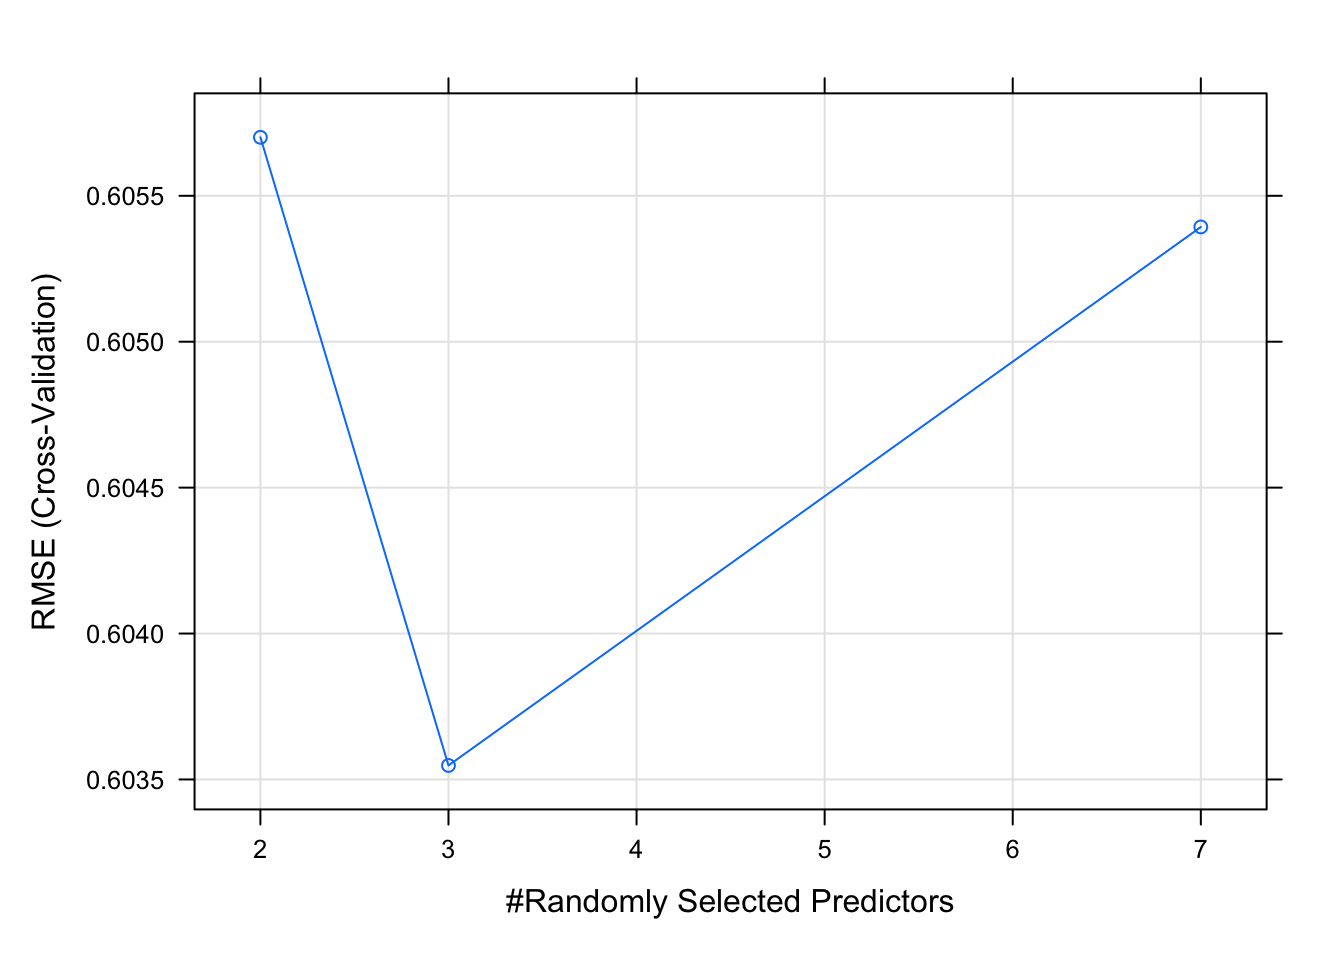
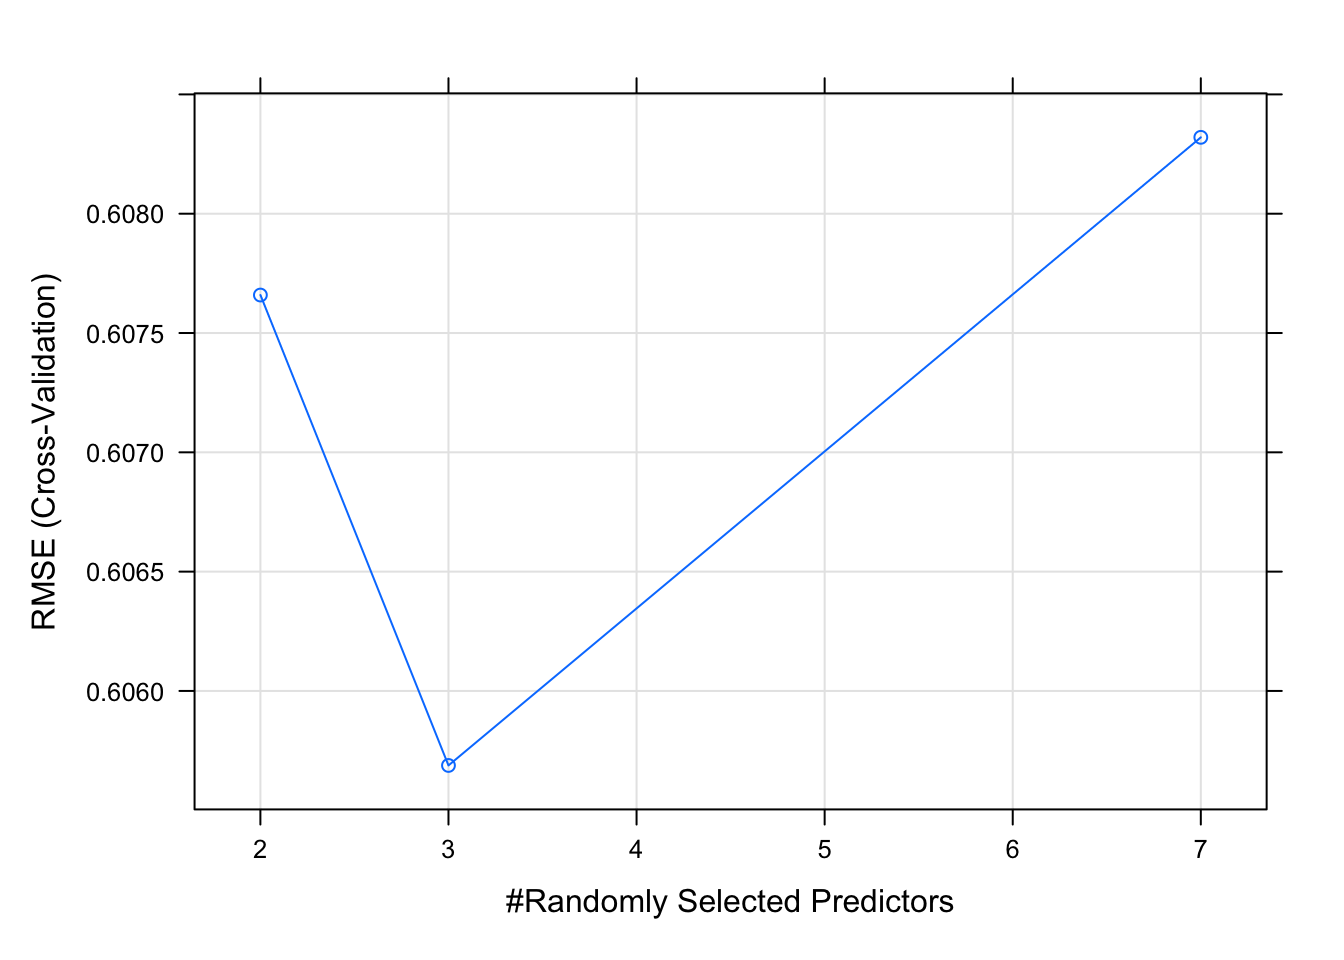
17modeling.Rmd minor changes

diff --git a/_book/modeling.html b/_book/modeling.html
@@ -6,7 +6,7 @@
   <meta http-equiv="X-UA-Compatible" content="IE=edge" />
   <title>Chapter 17 Modeling | Bill’s Drills Book</title>
   <meta name="description" content="Chapter 17 Modeling | Bill’s Drills Book" />
-  <meta name="generator" content="bookdown 0.22 and GitBook 2.6.7" />
+  <meta name="generator" content="bookdown 0.24 and GitBook 2.6.7" />
 
   <meta property="og:title" content="Chapter 17 Modeling | Bill’s Drills Book" />
   <meta property="og:type" content="book" />
@@ -32,8 +32,9 @@
   
 <link rel="prev" href="knncv.html"/>
 <link rel="next" href="moremodeling.html"/>
-<script src="libs/header-attrs-2.9/header-attrs.js"></script>
-<script src="libs/jquery-2.2.3/jquery.min.js"></script>
+<script src="libs/header-attrs-2.10/header-attrs.js"></script>
+<script src="libs/jquery-3.6.0/jquery-3.6.0.min.js"></script>
+<script src="https://cdn.jsdelivr.net/npm/fuse.js@6.4.6/dist/fuse.min.js"></script>
 <link href="libs/gitbook-2.6.7/css/style.css" rel="stylesheet" />
 <link href="libs/gitbook-2.6.7/css/plugin-table.css" rel="stylesheet" />
 <link href="libs/gitbook-2.6.7/css/plugin-bookdown.css" rel="stylesheet" />
@@ -41,7 +42,6 @@
 <link href="libs/gitbook-2.6.7/css/plugin-search.css" rel="stylesheet" />
 <link href="libs/gitbook-2.6.7/css/plugin-fontsettings.css" rel="stylesheet" />
 <link href="libs/gitbook-2.6.7/css/plugin-clipboard.css" rel="stylesheet" />
-
 
 
 
@@ -58,7 +58,6 @@
 pre > code.sourceCode { white-space: pre; position: relative; }
 pre > code.sourceCode > span { display: inline-block; line-height: 1.25; }
 pre > code.sourceCode > span:empty { height: 1.2em; }
-.sourceCode { overflow: visible; }
 code.sourceCode > span { color: inherit; text-decoration: inherit; }
 pre.sourceCode { margin: 0; }
 @media screen {
@@ -263,7 +262,7 @@ code span.wa { color: #60a0b0; font-weight: bold; font-style: italic; } /* Warni
 <ul>
 <li class="chapter" data-level="17.1" data-path="modeling.html"><a href="modeling.html#modeling-notes"><i class="fa fa-check"></i><b>17.1</b> Modeling notes</a></li>
 <li class="chapter" data-level="17.2" data-path="modeling.html"><a href="modeling.html#out-of-sample-error-example"><i class="fa fa-check"></i><b>17.2</b> Out of sample error example</a></li>
-<li class="chapter" data-level="17.3" data-path="modeling.html"><a href="modeling.html#a-regression-example-from-the-course"><i class="fa fa-check"></i><b>17.3</b> A regression example from the course:</a></li>
+<li class="chapter" data-level="17.3" data-path="modeling.html"><a href="modeling.html#a-regression-example-from-the-course-this-time-using-caret"><i class="fa fa-check"></i><b>17.3</b> A regression example from the course, this time using <strong>caret</strong></a></li>
 <li class="chapter" data-level="17.4" data-path="modeling.html"><a href="modeling.html#classification"><i class="fa fa-check"></i><b>17.4</b> Classification</a>
 <ul>
 <li class="chapter" data-level="17.4.1" data-path="modeling.html"><a href="modeling.html#an-rpart-classification-example."><i class="fa fa-check"></i><b>17.4.1</b> An <strong>rpart</strong> classification example.</a></li>
@@ -282,6 +281,12 @@ code span.wa { color: #60a0b0; font-weight: bold; font-style: italic; } /* Warni
 <ul>
 <li class="chapter" data-level="19.1" data-path="github.html"><a href="github.html#basic-idea"><i class="fa fa-check"></i><b>19.1</b> Basic idea</a></li>
 <li class="chapter" data-level="19.2" data-path="github.html"><a href="github.html#a-couple-invaluable-websites"><i class="fa fa-check"></i><b>19.2</b> A couple invaluable websites</a></li>
+</ul></li>
+<li class="chapter" data-level="20" data-path="explainingmachinelearning.html"><a href="explainingmachinelearning.html"><i class="fa fa-check"></i><b>20</b> What is machine learning?</a>
+<ul>
+<li class="chapter" data-level="20.1" data-path="explainingmachinelearning.html"><a href="explainingmachinelearning.html#machine-learning-for-mds"><i class="fa fa-check"></i><b>20.1</b> Machine learning for MD’s</a></li>
+<li class="chapter" data-level="20.2" data-path="explainingmachinelearning.html"><a href="explainingmachinelearning.html#supervised-versus-unsuperised-learning"><i class="fa fa-check"></i><b>20.2</b> Supervised versus unsuperised learning</a></li>
+<li class="chapter" data-level="20.3" data-path="explainingmachinelearning.html"><a href="explainingmachinelearning.html#classification-versus-regression"><i class="fa fa-check"></i><b>20.3</b> Classification versus regression</a></li>
 </ul></li>
 <li class="chapter" data-level="" data-path="references.html"><a href="references.html"><i class="fa fa-check"></i>References</a></li>
 <li class="divider"></li>
@@ -332,7 +337,7 @@ code span.wa { color: #60a0b0; font-weight: bold; font-style: italic; } /* Warni
 ## $ y       &lt;dbl&gt; 3.98, 3.84, 4.07, 4.23, 4.35, 3.96, 3.98, 4.11, 3.78, 4.05, 4.…
 ## $ z       &lt;dbl&gt; 2.43, 2.31, 2.31, 2.63, 2.75, 2.48, 2.47, 2.53, 2.49, 2.39, 2.…</code></pre>
 <div class="sourceCode" id="cb17"><pre class="sourceCode r"><code class="sourceCode r"><span id="cb17-1"><a href="modeling.html#cb17-1" aria-hidden="true" tabindex="-1"></a><span class="co"># Fit lm model: model</span></span>
-<span id="cb17-2"><a href="modeling.html#cb17-2" aria-hidden="true" tabindex="-1"></a>model<span class="ot">&lt;-</span><span class="fu">lm</span>(price<span class="sc">~</span>.,diamonds)</span>
+<span id="cb17-2"><a href="modeling.html#cb17-2" aria-hidden="true" tabindex="-1"></a>model<span class="ot">&lt;-</span><span class="fu">lm</span>(price<span class="sc">~</span>., diamonds)</span>
 <span id="cb17-3"><a href="modeling.html#cb17-3" aria-hidden="true" tabindex="-1"></a></span>
 <span id="cb17-4"><a href="modeling.html#cb17-4" aria-hidden="true" tabindex="-1"></a><span class="co"># Predict on full data: p</span></span>
 <span id="cb17-5"><a href="modeling.html#cb17-5" aria-hidden="true" tabindex="-1"></a>p<span class="ot">&lt;-</span><span class="fu">predict</span>(model, diamonds)</span>
@@ -385,10 +390,11 @@ code span.wa { color: #60a0b0; font-weight: bold; font-style: italic; } /* Warni
 <span id="cb19-28"><a href="modeling.html#cb19-28" aria-hidden="true" tabindex="-1"></a><span class="co"># Calculate RMSE</span></span>
 <span id="cb19-29"><a href="modeling.html#cb19-29" aria-hidden="true" tabindex="-1"></a><span class="fu">sqrt</span>(<span class="fu">mean</span>(error<span class="sc">^</span><span class="dv">2</span>))</span></code></pre></div>
 <pre><code>## [1] 796.8922</code></pre>
-<p>So the RMSE for the model of diamond price, as measured by dividing the set this way, is $<code>R round(sqrt(mean(error^2)), 2)</code>.</p>
+<p>So the RMSE for the model of diamond price, as measured by dividing the set this way, is $796.89.</p>
 </div>
-<div id="a-regression-example-from-the-course" class="section level2" number="17.3">
-<h2><span class="header-section-number">17.3</span> A regression example from the course:</h2>
+<div id="a-regression-example-from-the-course-this-time-using-caret" class="section level2" number="17.3">
+<h2><span class="header-section-number">17.3</span> A regression example from the course, this time using <strong>caret</strong></h2>
+<p>Note that the <code>train()</code> function has the method characteristic that can choose the type of model and that the <code>trainControl()</code> function has a method that determines cross validation. The number characteristic refers to the number of folds of cross validation. 10-fold cross validation is common, but takes more time than the use of smaller numbers. 5-fold will be used here to improve the speed of the processing.</p>
 <div class="sourceCode" id="cb21"><pre class="sourceCode r"><code class="sourceCode r"><span id="cb21-1"><a href="modeling.html#cb21-1" aria-hidden="true" tabindex="-1"></a><span class="fu">library</span>(caret)</span></code></pre></div>
 <pre><code>## Loading required package: lattice</code></pre>
 <pre><code>## 
@@ -402,30 +408,20 @@ code span.wa { color: #60a0b0; font-weight: bold; font-style: italic; } /* Warni
 <span id="cb25-4"><a href="modeling.html#cb25-4" aria-hidden="true" tabindex="-1"></a>  <span class="at">method =</span> <span class="st">&quot;lm&quot;</span>,</span>
 <span id="cb25-5"><a href="modeling.html#cb25-5" aria-hidden="true" tabindex="-1"></a>  <span class="at">trControl =</span> <span class="fu">trainControl</span>(</span>
 <span id="cb25-6"><a href="modeling.html#cb25-6" aria-hidden="true" tabindex="-1"></a>    <span class="at">method =</span> <span class="st">&quot;cv&quot;</span>, </span>
-<span id="cb25-7"><a href="modeling.html#cb25-7" aria-hidden="true" tabindex="-1"></a>    <span class="at">number =</span> <span class="dv">10</span>,</span>
+<span id="cb25-7"><a href="modeling.html#cb25-7" aria-hidden="true" tabindex="-1"></a>    <span class="at">number =</span> <span class="dv">5</span>,</span>
 <span id="cb25-8"><a href="modeling.html#cb25-8" aria-hidden="true" tabindex="-1"></a>    <span class="at">verboseIter =</span> <span class="cn">TRUE</span></span>
 <span id="cb25-9"><a href="modeling.html#cb25-9" aria-hidden="true" tabindex="-1"></a>  )</span>
 <span id="cb25-10"><a href="modeling.html#cb25-10" aria-hidden="true" tabindex="-1"></a>)</span></code></pre></div>
-<pre><code>## + Fold01: intercept=TRUE 
-## - Fold01: intercept=TRUE 
-## + Fold02: intercept=TRUE 
-## - Fold02: intercept=TRUE 
-## + Fold03: intercept=TRUE 
-## - Fold03: intercept=TRUE 
-## + Fold04: intercept=TRUE 
-## - Fold04: intercept=TRUE 
-## + Fold05: intercept=TRUE 
-## - Fold05: intercept=TRUE 
-## + Fold06: intercept=TRUE 
-## - Fold06: intercept=TRUE 
-## + Fold07: intercept=TRUE 
-## - Fold07: intercept=TRUE 
-## + Fold08: intercept=TRUE 
-## - Fold08: intercept=TRUE 
-## + Fold09: intercept=TRUE 
-## - Fold09: intercept=TRUE 
-## + Fold10: intercept=TRUE 
-## - Fold10: intercept=TRUE 
+<pre><code>## + Fold1: intercept=TRUE 
+## - Fold1: intercept=TRUE 
+## + Fold2: intercept=TRUE 
+## - Fold2: intercept=TRUE 
+## + Fold3: intercept=TRUE 
+## - Fold3: intercept=TRUE 
+## + Fold4: intercept=TRUE 
+## - Fold4: intercept=TRUE 
+## + Fold5: intercept=TRUE 
+## - Fold5: intercept=TRUE 
 ## Aggregating results
 ## Fitting final model on full training set</code></pre>
 <div class="sourceCode" id="cb27"><pre class="sourceCode r"><code class="sourceCode r"><span id="cb27-1"><a href="modeling.html#cb27-1" aria-hidden="true" tabindex="-1"></a><span class="co"># Print model to console</span></span>
@@ -436,12 +432,12 @@ code span.wa { color: #60a0b0; font-weight: bold; font-style: italic; } /* Warni
 ##     9 predictor
 ## 
 ## No pre-processing
-## Resampling: Cross-Validated (10 fold) 
-## Summary of sample sizes: 48547, 48546, 48546, 48547, 48545, 48547, ... 
+## Resampling: Cross-Validated (5 fold) 
+## Summary of sample sizes: 43152, 43152, 43152, 43152, 43152 
 ## Resampling results:
 ## 
 ##   RMSE      Rsquared   MAE     
-##   1131.015  0.9196398  740.6117
+##   1137.965  0.9186084  741.3386
 ## 
 ## Tuning parameter &#39;intercept&#39; was held constant at a value of TRUE</code></pre>
 <p>Note that <strong>caret</strong> handles the work of splitting test sets and calculating RMSE.</p>
@@ -484,11 +480,11 @@ code span.wa { color: #60a0b0; font-weight: bold; font-style: italic; } /* Warni
 ## 
 ## No pre-processing
 ## Resampling: Cross-Validated (5 fold) 
-## Summary of sample sizes: 405, 405, 406, 403, 405 
+## Summary of sample sizes: 405, 405, 405, 403, 406 
 ## Resampling results:
 ## 
 ##   RMSE      Rsquared   MAE     
-##   4.860247  0.7209221  3.398114
+##   4.811293  0.7238097  3.375276
 ## 
 ## Tuning parameter &#39;intercept&#39; was held constant at a value of TRUE</code></pre>
 <p>Cross validation can <em>itself</em> be repeated. The following is a 5-fold cross validation repeated 5 times.</p>
@@ -565,11 +561,11 @@ code span.wa { color: #60a0b0; font-weight: bold; font-style: italic; } /* Warni
 ## 
 ## No pre-processing
 ## Resampling: Cross-Validated (5 fold, repeated 5 times) 
-## Summary of sample sizes: 405, 406, 405, 403, 405, 405, ... 
+## Summary of sample sizes: 405, 404, 404, 406, 405, 405, ... 
 ## Resampling results:
 ## 
-##   RMSE      Rsquared   MAE     
-##   4.845724  0.7277269  3.402735
+##   RMSE    Rsquared  MAE     
+##   4.8764  0.722424  3.421333
 ## 
 ## Tuning parameter &#39;intercept&#39; was held constant at a value of TRUE</code></pre>
 <div class="sourceCode" id="cb40"><pre class="sourceCode r"><code class="sourceCode r"><span id="cb40-1"><a href="modeling.html#cb40-1" aria-hidden="true" tabindex="-1"></a><span class="fu">predict</span>(model, Boston)</span></code></pre></div>
@@ -809,39 +805,39 @@ code span.wa { color: #60a0b0; font-weight: bold; font-style: italic; } /* Warni
 <div class="sourceCode" id="cb52"><pre class="sourceCode r"><code class="sourceCode r"><span id="cb52-1"><a href="modeling.html#cb52-1" aria-hidden="true" tabindex="-1"></a>p <span class="ot">&lt;-</span> <span class="fu">predict</span>(model, test, <span class="at">type =</span> <span class="st">&quot;response&quot;</span>)</span>
 <span id="cb52-2"><a href="modeling.html#cb52-2" aria-hidden="true" tabindex="-1"></a><span class="fu">summary</span>(p)</span></code></pre></div>
 <pre><code>##     Min.  1st Qu.   Median     Mean  3rd Qu.     Max. 
-## 0.000000 0.000000 0.001997 0.493985 1.000000 1.000000</code></pre>
+## 0.000000 0.000000 0.002428 0.438835 1.000000 1.000000</code></pre>
 <div class="sourceCode" id="cb54"><pre class="sourceCode r"><code class="sourceCode r"><span id="cb54-1"><a href="modeling.html#cb54-1" aria-hidden="true" tabindex="-1"></a>p_class <span class="ot">&lt;-</span> <span class="fu">as.factor</span>(<span class="fu">ifelse</span>(p <span class="sc">&gt;</span> <span class="fl">0.1</span>, <span class="st">&quot;M&quot;</span>, <span class="st">&quot;R&quot;</span>))</span>
 <span id="cb54-2"><a href="modeling.html#cb54-2" aria-hidden="true" tabindex="-1"></a></span>
 <span id="cb54-3"><a href="modeling.html#cb54-3" aria-hidden="true" tabindex="-1"></a><span class="fu">table</span>(p_class, test[[<span class="st">&quot;Class&quot;</span>]])</span></code></pre></div>
 <pre><code>##        
 ## p_class  M  R
-##       M 12 29
-##       R 28 14</code></pre>
+##       M 11 26
+##       R 35 11</code></pre>
 <div class="sourceCode" id="cb56"><pre class="sourceCode r"><code class="sourceCode r"><span id="cb56-1"><a href="modeling.html#cb56-1" aria-hidden="true" tabindex="-1"></a><span class="fu">confusionMatrix</span>(p_class, test[[<span class="st">&quot;Class&quot;</span>]])</span></code></pre></div>
 <pre><code>## Confusion Matrix and Statistics
 ## 
 ##           Reference
 ## Prediction  M  R
-##          M 12 29
-##          R 28 14
+##          M 11 26
+##          R 35 11
 ##                                           
-##                Accuracy : 0.3133          
-##                  95% CI : (0.2159, 0.4244)
-##     No Information Rate : 0.5181          
-##     P-Value [Acc &gt; NIR] : 0.9999          
+##                Accuracy : 0.2651          
+##                  95% CI : (0.1742, 0.3734)
+##     No Information Rate : 0.5542          
+##     P-Value [Acc &gt; NIR] : 1.0000          
 ##                                           
-##                   Kappa : -0.3741         
+##                   Kappa : -0.4528         
 ##                                           
-##  Mcnemar&#39;s Test P-Value : 1.0000          
+##  Mcnemar&#39;s Test P-Value : 0.3057          
 ##                                           
-##             Sensitivity : 0.3000          
-##             Specificity : 0.3256          
-##          Pos Pred Value : 0.2927          
-##          Neg Pred Value : 0.3333          
-##              Prevalence : 0.4819          
-##          Detection Rate : 0.1446          
-##    Detection Prevalence : 0.4940          
-##       Balanced Accuracy : 0.3128          
+##             Sensitivity : 0.2391          
+##             Specificity : 0.2973          
+##          Pos Pred Value : 0.2973          
+##          Neg Pred Value : 0.2391          
+##              Prevalence : 0.5542          
+##          Detection Rate : 0.1325          
+##    Detection Prevalence : 0.4458          
+##       Balanced Accuracy : 0.2682          
 ##                                           
 ##        &#39;Positive&#39; Class : M               
 ## </code></pre>
@@ -925,15 +921,15 @@ code span.wa { color: #60a0b0; font-weight: bold; font-style: italic; } /* Warni
 ## 
 ## No pre-processing
 ## Resampling: Cross-Validated (10 fold) 
-## Summary of sample sizes: 187, 187, 188, 187, 186, 187, ... 
+## Summary of sample sizes: 187, 187, 186, 188, 188, 187, ... 
 ## Resampling results:
 ## 
-##   ROC        Sens       Spec     
-##   0.7363889  0.7310606  0.7055556</code></pre>
+##   ROC        Sens       Spec
+##   0.7221086  0.7378788  0.67</code></pre>
 </div>
 <div id="random-forest-with-caret" class="section level2" number="17.6">
 <h2><span class="header-section-number">17.6</span> Random forest with <strong>caret</strong></h2>
-<p>For this set, we’ll use the white wine quality dataset from UC Irvine.</p>
+<p>For this set, we’ll use the white wine quality data set from UC Irvine.</p>
 <div class="sourceCode" id="cb85"><pre class="sourceCode r"><code class="sourceCode r"><span id="cb85-1"><a href="modeling.html#cb85-1" aria-hidden="true" tabindex="-1"></a>wine <span class="ot">&lt;-</span> <span class="fu">read.csv</span>(<span class="st">&quot;http://archive.ics.uci.edu/ml/machine-learning-databases/wine-quality/winequality-white.csv&quot;</span>, <span class="at">sep =</span> <span class="st">&quot;;&quot;</span>)</span>
 <span id="cb85-2"><a href="modeling.html#cb85-2" aria-hidden="true" tabindex="-1"></a></span>
 <span id="cb85-3"><a href="modeling.html#cb85-3" aria-hidden="true" tabindex="-1"></a><span class="fu">glimpse</span>(wine)</span></code></pre></div>
@@ -997,12 +993,12 @@ code span.wa { color: #60a0b0; font-weight: bold; font-style: italic; } /* Warni
 ## 
 ## No pre-processing
 ## Resampling: Cross-Validated (5 fold) 
-## Summary of sample sizes: 3918, 3918, 3919, 3918, 3919 
+## Summary of sample sizes: 3918, 3918, 3919, 3919, 3918 
 ## Resampling results across tuning parameters:
 ## 
 ##   splitrule   RMSE       Rsquared   MAE      
-##   variance    0.6088784  0.5345764  0.4408249
-##   extratrees  0.6210150  0.5259736  0.4605455
+##   variance    0.6050967  0.5413882  0.4391071
+##   extratrees  0.6153818  0.5364792  0.4578305
 ## 
 ## Tuning parameter &#39;mtry&#39; was held constant at a value of 3
 ## Tuning
@@ -1240,26 +1236,26 @@ code span.wa { color: #60a0b0; font-weight: bold; font-style: italic; } /* Warni
 ## Resampling results across tuning parameters:
 ## 
 ##   mtry  splitrule   RMSE       Rsquared   MAE      
-##    2    variance    0.6057204  0.5434891  0.4402250
-##    2    extratrees  0.6225409  0.5313962  0.4652635
-##    3    variance    0.6046126  0.5422199  0.4374184
-##    3    extratrees  0.6158234  0.5354961  0.4564243
-##    4    variance    0.6034676  0.5426562  0.4358454
-##    4    extratrees  0.6130888  0.5362907  0.4519836
-##    5    variance    0.6048032  0.5395454  0.4361404
-##    5    extratrees  0.6112438  0.5370366  0.4492617
-##    6    variance    0.6057024  0.5372313  0.4362111
-##    6    extratrees  0.6109336  0.5355019  0.4476956
-##    7    variance    0.6061353  0.5358889  0.4369985
-##    7    extratrees  0.6099249  0.5359499  0.4457628
-##    8    variance    0.6063708  0.5351282  0.4363110
-##    8    extratrees  0.6095864  0.5356302  0.4452885
-##    9    variance    0.6059328  0.5356964  0.4364586
-##    9    extratrees  0.6099230  0.5343878  0.4444948
-##   10    variance    0.6076286  0.5325974  0.4368646
-##   10    extratrees  0.6092013  0.5347315  0.4433534
-##   11    variance    0.6092080  0.5299952  0.4381026
-##   11    extratrees  0.6083401  0.5357723  0.4424654
+##    2    variance    0.6057267  0.5439626  0.4405916
+##    2    extratrees  0.6236281  0.5298696  0.4653787
+##    3    variance    0.6046583  0.5423307  0.4382451
+##    3    extratrees  0.6156828  0.5361785  0.4564330
+##    4    variance    0.6043205  0.5415035  0.4369536
+##    4    extratrees  0.6121588  0.5385053  0.4515880
+##    5    variance    0.6055318  0.5381417  0.4372017
+##    5    extratrees  0.6105919  0.5382888  0.4489989
+##    6    variance    0.6059000  0.5371010  0.4376776
+##    6    extratrees  0.6100430  0.5376337  0.4473954
+##    7    variance    0.6053503  0.5373499  0.4365124
+##    7    extratrees  0.6103668  0.5356061  0.4465320
+##    8    variance    0.6058807  0.5364227  0.4372000
+##    8    extratrees  0.6088559  0.5371926  0.4442014
+##    9    variance    0.6084825  0.5316505  0.4382170
+##    9    extratrees  0.6090639  0.5360376  0.4442829
+##   10    variance    0.6093909  0.5296893  0.4394500
+##   10    extratrees  0.6095042  0.5344968  0.4435984
+##   11    variance    0.6096074  0.5291148  0.4389384
+##   11    extratrees  0.6088682  0.5352417  0.4435641
 ## 
 ## Tuning parameter &#39;min.node.size&#39; was held constant at a value of 5
 ## RMSE was used to select the optimal model using the smallest value.
@@ -1331,13 +1327,13 @@ code span.wa { color: #60a0b0; font-weight: bold; font-style: italic; } /* Warni
 ## 
 ## No pre-processing
 ## Resampling: Cross-Validated (5 fold) 
-## Summary of sample sizes: 3918, 3918, 3918, 3919, 3919 
+## Summary of sample sizes: 3918, 3918, 3919, 3918, 3919 
 ## Resampling results across tuning parameters:
 ## 
 ##   mtry  RMSE       Rsquared   MAE      
-##   2     0.6057004  0.5434261  0.4413449
-##   3     0.6035480  0.5436473  0.4378213
-##   7     0.6053933  0.5366925  0.4373623
+##   2     0.6076591  0.5397497  0.4417339
+##   3     0.6056877  0.5399161  0.4378556
+##   7     0.6083201  0.5319077  0.4367244
 ## 
 ## Tuning parameter &#39;splitrule&#39; was held constant at a value of variance
 ## 
@@ -1361,7 +1357,6 @@ code span.wa { color: #60a0b0; font-weight: bold; font-style: italic; } /* Warni
     </div>
   </div>
 <script src="libs/gitbook-2.6.7/js/app.min.js"></script>
-<script src="libs/gitbook-2.6.7/js/lunr.js"></script>
 <script src="libs/gitbook-2.6.7/js/clipboard.min.js"></script>
 <script src="libs/gitbook-2.6.7/js/plugin-search.js"></script>
 <script src="libs/gitbook-2.6.7/js/plugin-sharing.js"></script>
@@ -1401,6 +1396,10 @@ gitbook.start({
 "text": null
 },
 "download": ["test-book.pdf", "test-book.epub"],
+"search": {
+"engine": "fuse",
+"options": null
+},
 "toc": {
 "collapse": "subsection"
 }

diff --git a/_book/404.html b/_book/404.html
@@ -6,7 +6,7 @@
   <meta http-equiv="X-UA-Compatible" content="IE=edge" />
   <title>Page not found | Bill’s Drills Book</title>
   <meta name="description" content="Page not found | Bill’s Drills Book" />
-  <meta name="generator" content="bookdown 0.23 and GitBook 2.6.7" />
+  <meta name="generator" content="bookdown 0.24 and GitBook 2.6.7" />
 
   <meta property="og:title" content="Page not found | Bill’s Drills Book" />
   <meta property="og:type" content="book" />
@@ -34,6 +34,7 @@
 
 <script src="libs/header-attrs-2.10/header-attrs.js"></script>
 <script src="libs/jquery-3.6.0/jquery-3.6.0.min.js"></script>
+<script src="https://cdn.jsdelivr.net/npm/fuse.js@6.4.6/dist/fuse.min.js"></script>
 <link href="libs/gitbook-2.6.7/css/style.css" rel="stylesheet" />
 <link href="libs/gitbook-2.6.7/css/plugin-table.css" rel="stylesheet" />
 <link href="libs/gitbook-2.6.7/css/plugin-bookdown.css" rel="stylesheet" />
@@ -41,7 +42,6 @@
 <link href="libs/gitbook-2.6.7/css/plugin-search.css" rel="stylesheet" />
 <link href="libs/gitbook-2.6.7/css/plugin-fontsettings.css" rel="stylesheet" />
 <link href="libs/gitbook-2.6.7/css/plugin-clipboard.css" rel="stylesheet" />
-
 
 
 
@@ -285,6 +285,8 @@ code span.wa { color: #60a0b0; font-weight: bold; font-style: italic; } /* Warni
 <li class="chapter" data-level="20" data-path="explainingmachinelearning.html"><a href="explainingmachinelearning.html"><i class="fa fa-check"></i><b>20</b> What is machine learning?</a>
 <ul>
 <li class="chapter" data-level="20.1" data-path="explainingmachinelearning.html"><a href="explainingmachinelearning.html#machine-learning-for-mds"><i class="fa fa-check"></i><b>20.1</b> Machine learning for MD’s</a></li>
+<li class="chapter" data-level="20.2" data-path="explainingmachinelearning.html"><a href="explainingmachinelearning.html#supervised-versus-unsuperised-learning"><i class="fa fa-check"></i><b>20.2</b> Supervised versus unsuperised learning</a></li>
+<li class="chapter" data-level="20.3" data-path="explainingmachinelearning.html"><a href="explainingmachinelearning.html#classification-versus-regression"><i class="fa fa-check"></i><b>20.3</b> Classification versus regression</a></li>
 </ul></li>
 <li class="chapter" data-level="" data-path="references.html"><a href="references.html"><i class="fa fa-check"></i>References</a></li>
 <li class="divider"></li>
@@ -323,7 +325,6 @@ the table of contents to find the page you are looking for.</p>
     </div>
   </div>
 <script src="libs/gitbook-2.6.7/js/app.min.js"></script>
-<script src="libs/gitbook-2.6.7/js/lunr.js"></script>
 <script src="libs/gitbook-2.6.7/js/clipboard.min.js"></script>
 <script src="libs/gitbook-2.6.7/js/plugin-search.js"></script>
 <script src="libs/gitbook-2.6.7/js/plugin-sharing.js"></script>
@@ -364,7 +365,7 @@ gitbook.start({
 },
 "download": ["test-book.pdf", "test-book.epub"],
 "search": {
-"engine": "lunr",
+"engine": "fuse",
 "options": null
 },
 "toc": {
